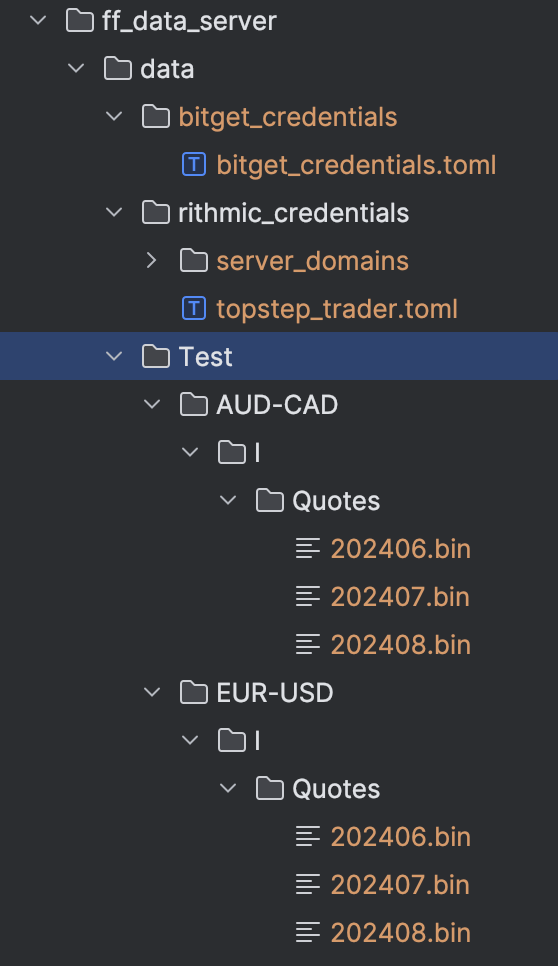
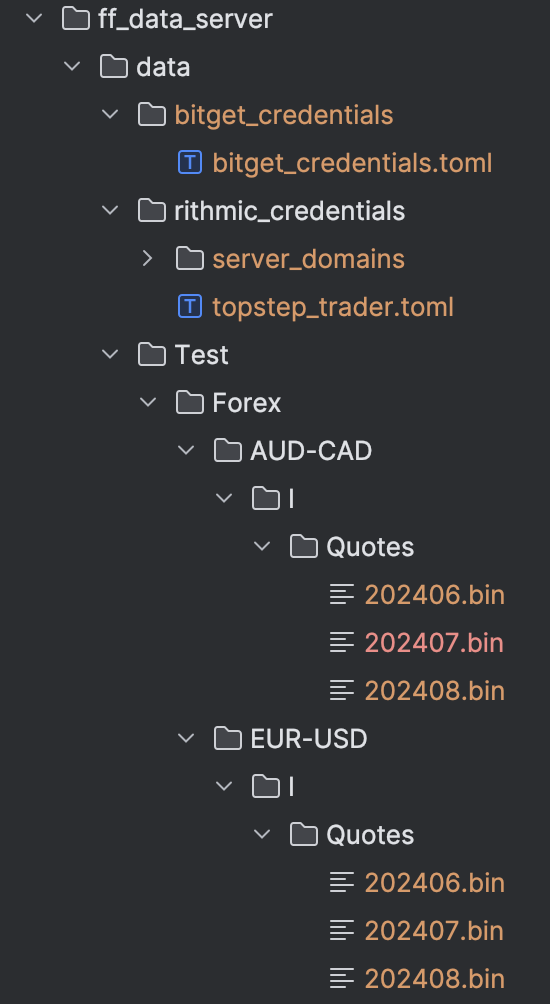
OVERHAUL DATA SERIALIZATION, RE-PARSE DATA

diff --git a/ff_standard_lib/src/server_features/database.rs b/ff_standard_lib/src/server_features/database.rs
@@ -16,6 +16,7 @@ use crate::standardized_types::time_slices::TimeSlice;
 
 // Todo, save as 1 file per week.
 //todo add update management handling, so we dont access data while it is being updated. instead we join a que to await the updates
+// use market type in folder structure
 pub struct HybridStorage {
     base_path: PathBuf,
     mmap_cache: Arc<Mutex<HashMap<String, Arc<Mmap>>>>,
@@ -32,6 +33,7 @@ impl HybridStorage {
     fn get_file_path(&self, symbol: &Symbol, resolution: &str, data_type: &BaseDataType, date: &DateTime<Utc>) -> PathBuf {
         self.base_path
             .join(symbol.data_vendor.to_string())
+            .join(symbol.market_type.to_string())
             .join(symbol.name.to_string())
             .join(resolution)
             .join(data_type.to_string())

diff --git a/ff_data_server/src/test_api/vendor_response.rs b/ff_data_server/src/test_api/vendor_response.rs
@@ -106,7 +106,7 @@ impl VendorApiResponse for TestApiClient {
 
             let mut last_time = from_time;
             'main_loop: while last_time < to_time {
-                let data = match DATA_BASE.get_data_range(&subscription.symbol, &subscription.resolution, &subscription.base_data_type, from_time, to_time).await {
+                let data = match DATA_STORAGE.get_data_range(&subscription.symbol, &subscription.resolution, &subscription.base_data_type, from_time, to_time).await {
                     Ok(data) => data,
                     Err(e) => {
                         eprintln!("Failed to get test data: {}", e);

diff --git a/ff_data_server/src/request_handlers.rs b/ff_data_server/src/request_handlers.rs
@@ -36,7 +36,7 @@ pub async fn base_data_response(
     let from_time: DateTime<Utc> = from_time.parse().unwrap();
     let to_time: DateTime<Utc> = to_time.parse().unwrap();
 
-    let data = match DATA_BASE.get_bulk_data(&subscriptions, from_time, to_time).await {
+    let data = match DATA_STORAGE.get_bulk_data(&subscriptions, from_time, to_time).await {
         Err(e) => return  DataServerResponse::Error { callback_id, error: FundForgeError::ServerErrorDebug(e.to_string())},
         Ok(data) => data
     };

diff --git a/README.md b/README.md
@@ -44,7 +44,7 @@ The Forex folder should be put into the following directory "ff_data_server/data
 The parsed data includes Quote data for AUD-CAD and EUR-CAD from start of 06/2024 to end of 08/2024.
 From this data your strategy will consolidate Candles or QuoteBars of any desired resolution, with open bar values being accurate to the latest quoted bid ask.
 
-![img_1.png](misc/folder_structure.png)
+![img.png](misc/folder_structure.png)
 
 ### For more testing and development data
 You can download some free testing data [here](https://www.histdata.com/download-free-forex-data/?/ascii/tick-data-quotes)
